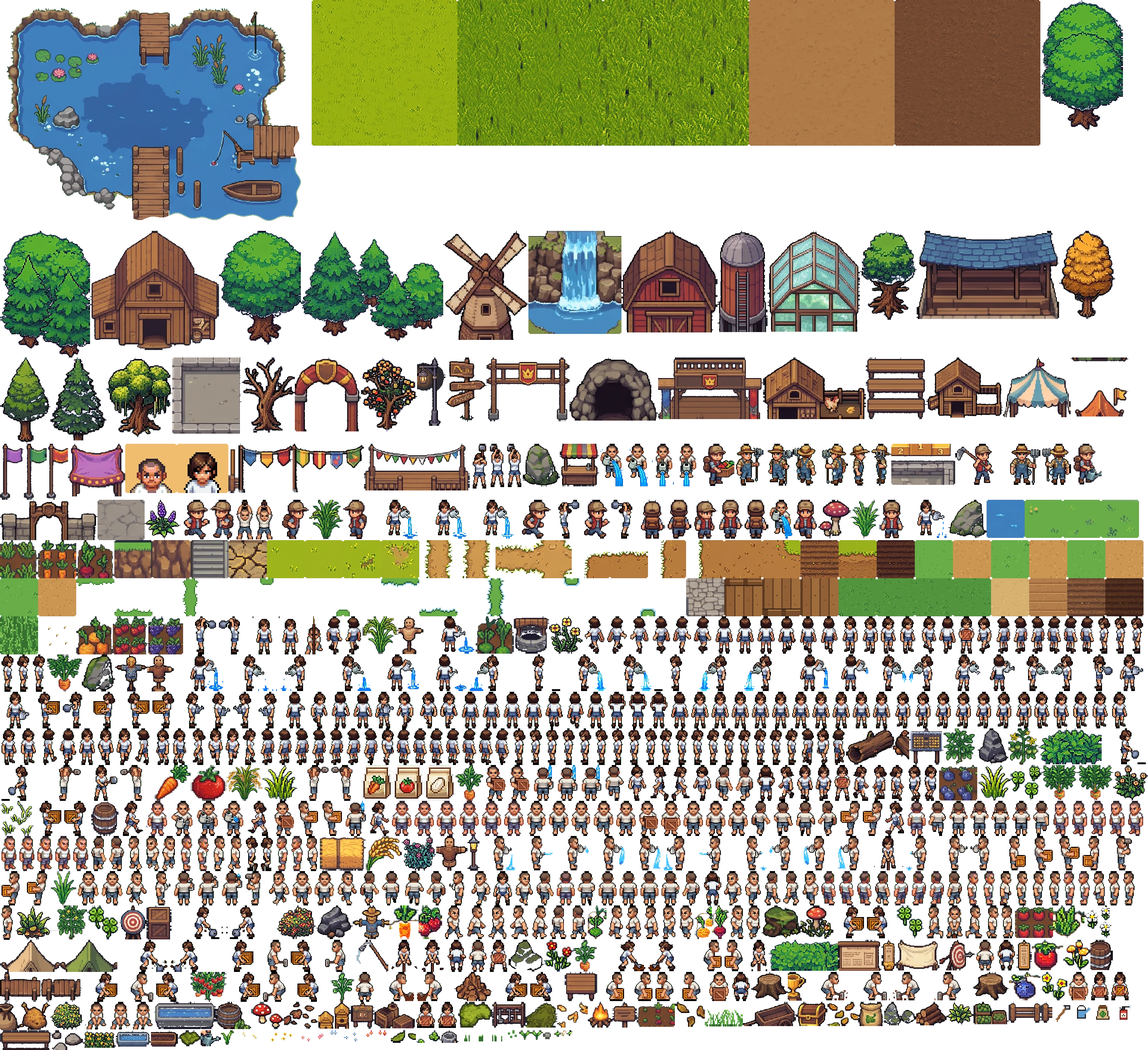
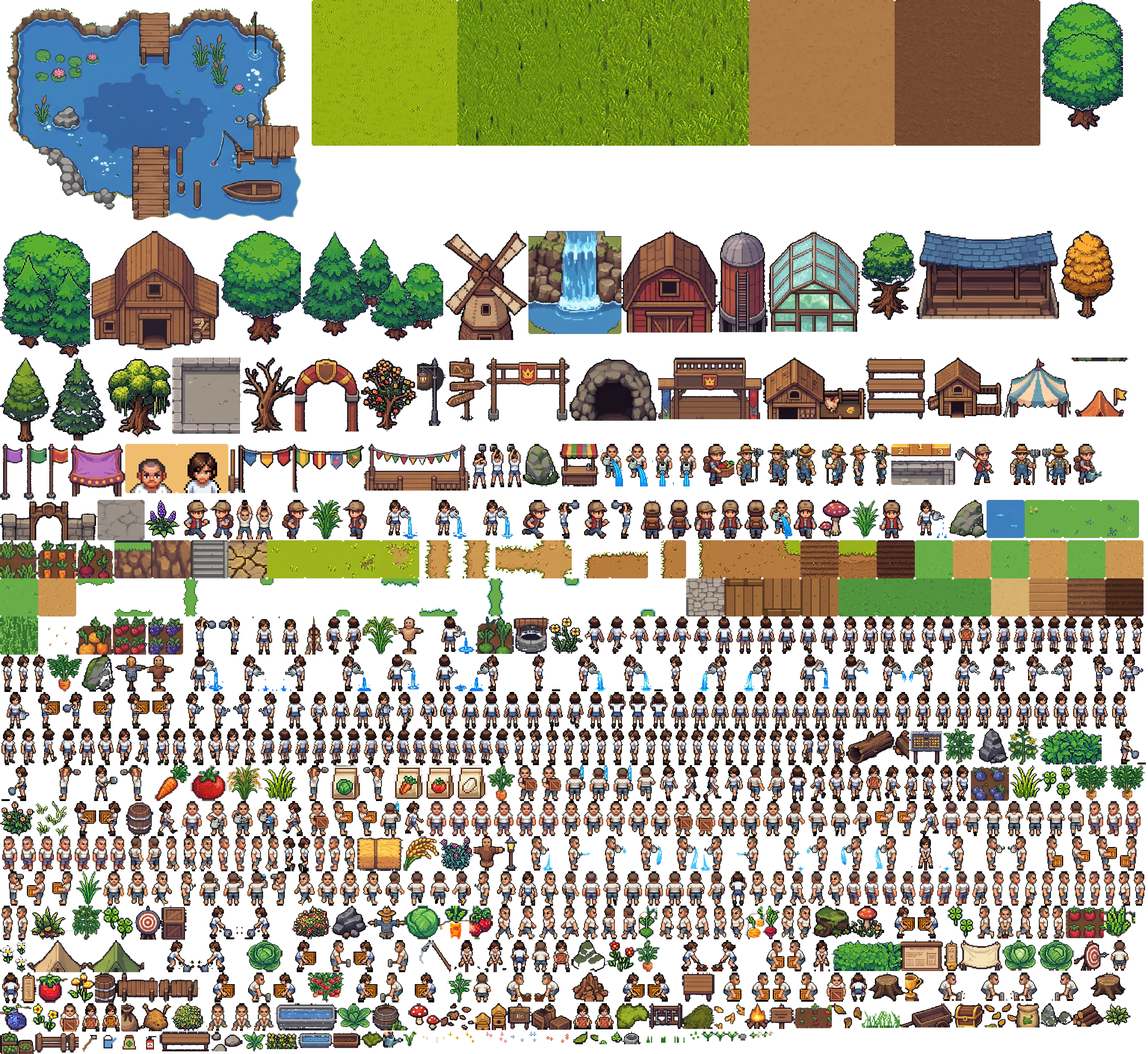
Thêm cây Cải bắp (hạt, mầm, 4 giai đoạn lớn, chín, nông sản, túi hạt) từ asset
Claude-Session: https://claude.ai/code/session_01BbaPnx3cHQqz9kHRAFFL9w

diff --git a/shared/rules.ts b/shared/rules.ts
@@ -14,6 +14,7 @@ export interface CropDef {
 export const CROPS: Record<string, CropDef> = {
   rice:       { id: 'rice',       name: 'Lúa',      seedPrice: 8,  sellPrice: 22,  stageSecs: 20 },
   carrot:     { id: 'carrot',     name: 'Cà rốt',   seedPrice: 10, sellPrice: 25,  stageSecs: 20 },
+  cabbage:    { id: 'cabbage',    name: 'Cải bắp',  seedPrice: 15, sellPrice: 40,  stageSecs: 30 },
   turnip:     { id: 'turnip',     name: 'Củ cải',   seedPrice: 12, sellPrice: 30,  stageSecs: 25 },
   tomato:     { id: 'tomato',     name: 'Cà chua',  seedPrice: 20, sellPrice: 55,  stageSecs: 35 },
   strawberry: { id: 'strawberry', name: 'Dâu tây',  seedPrice: 30, sellPrice: 85,  stageSecs: 45 },

diff --git a/tools/crops_cut.py b/tools/crops_cut.py
@@ -36,6 +36,13 @@ LAYOUT = {
         'ripe': (50, 766, 335, 1034, 'plant'),
         'item': (1032, 786, 1334, 1034, 'item'),
     },
+    'cabbage': {
+        'seed': (1440, 160, 1560, 260, 'seedbrown'),
+        'g1': (50, 418, 335, 640, 'plant'), 'g2': (548, 418, 840, 640, 'plant'),
+        'g3': (1032, 418, 1334, 640, 'plant'), 'g4': (1665, 418, 1950, 640, 'plant'),
+        'ripe': (50, 780, 335, 1030, 'plant'),
+        'item': (500, 795, 835, 1035, 'item'),
+    },
 }
 
 
@@ -83,6 +90,8 @@ def cut(src, box, mode):
             r, g, b = p[:3]
             if mode == 'green':
                 keep = g > r + 15 and g > b + 15
+            elif mode == 'seedbrown':     # a pale seed lying on brown soil
+                keep = r > 150 and g > 115 and r - b < 110 and g - b > 20
             elif mode == 'grain':
                 keep = r > 160 and g > 140 and b > 90
             elif mode == 'plant':
